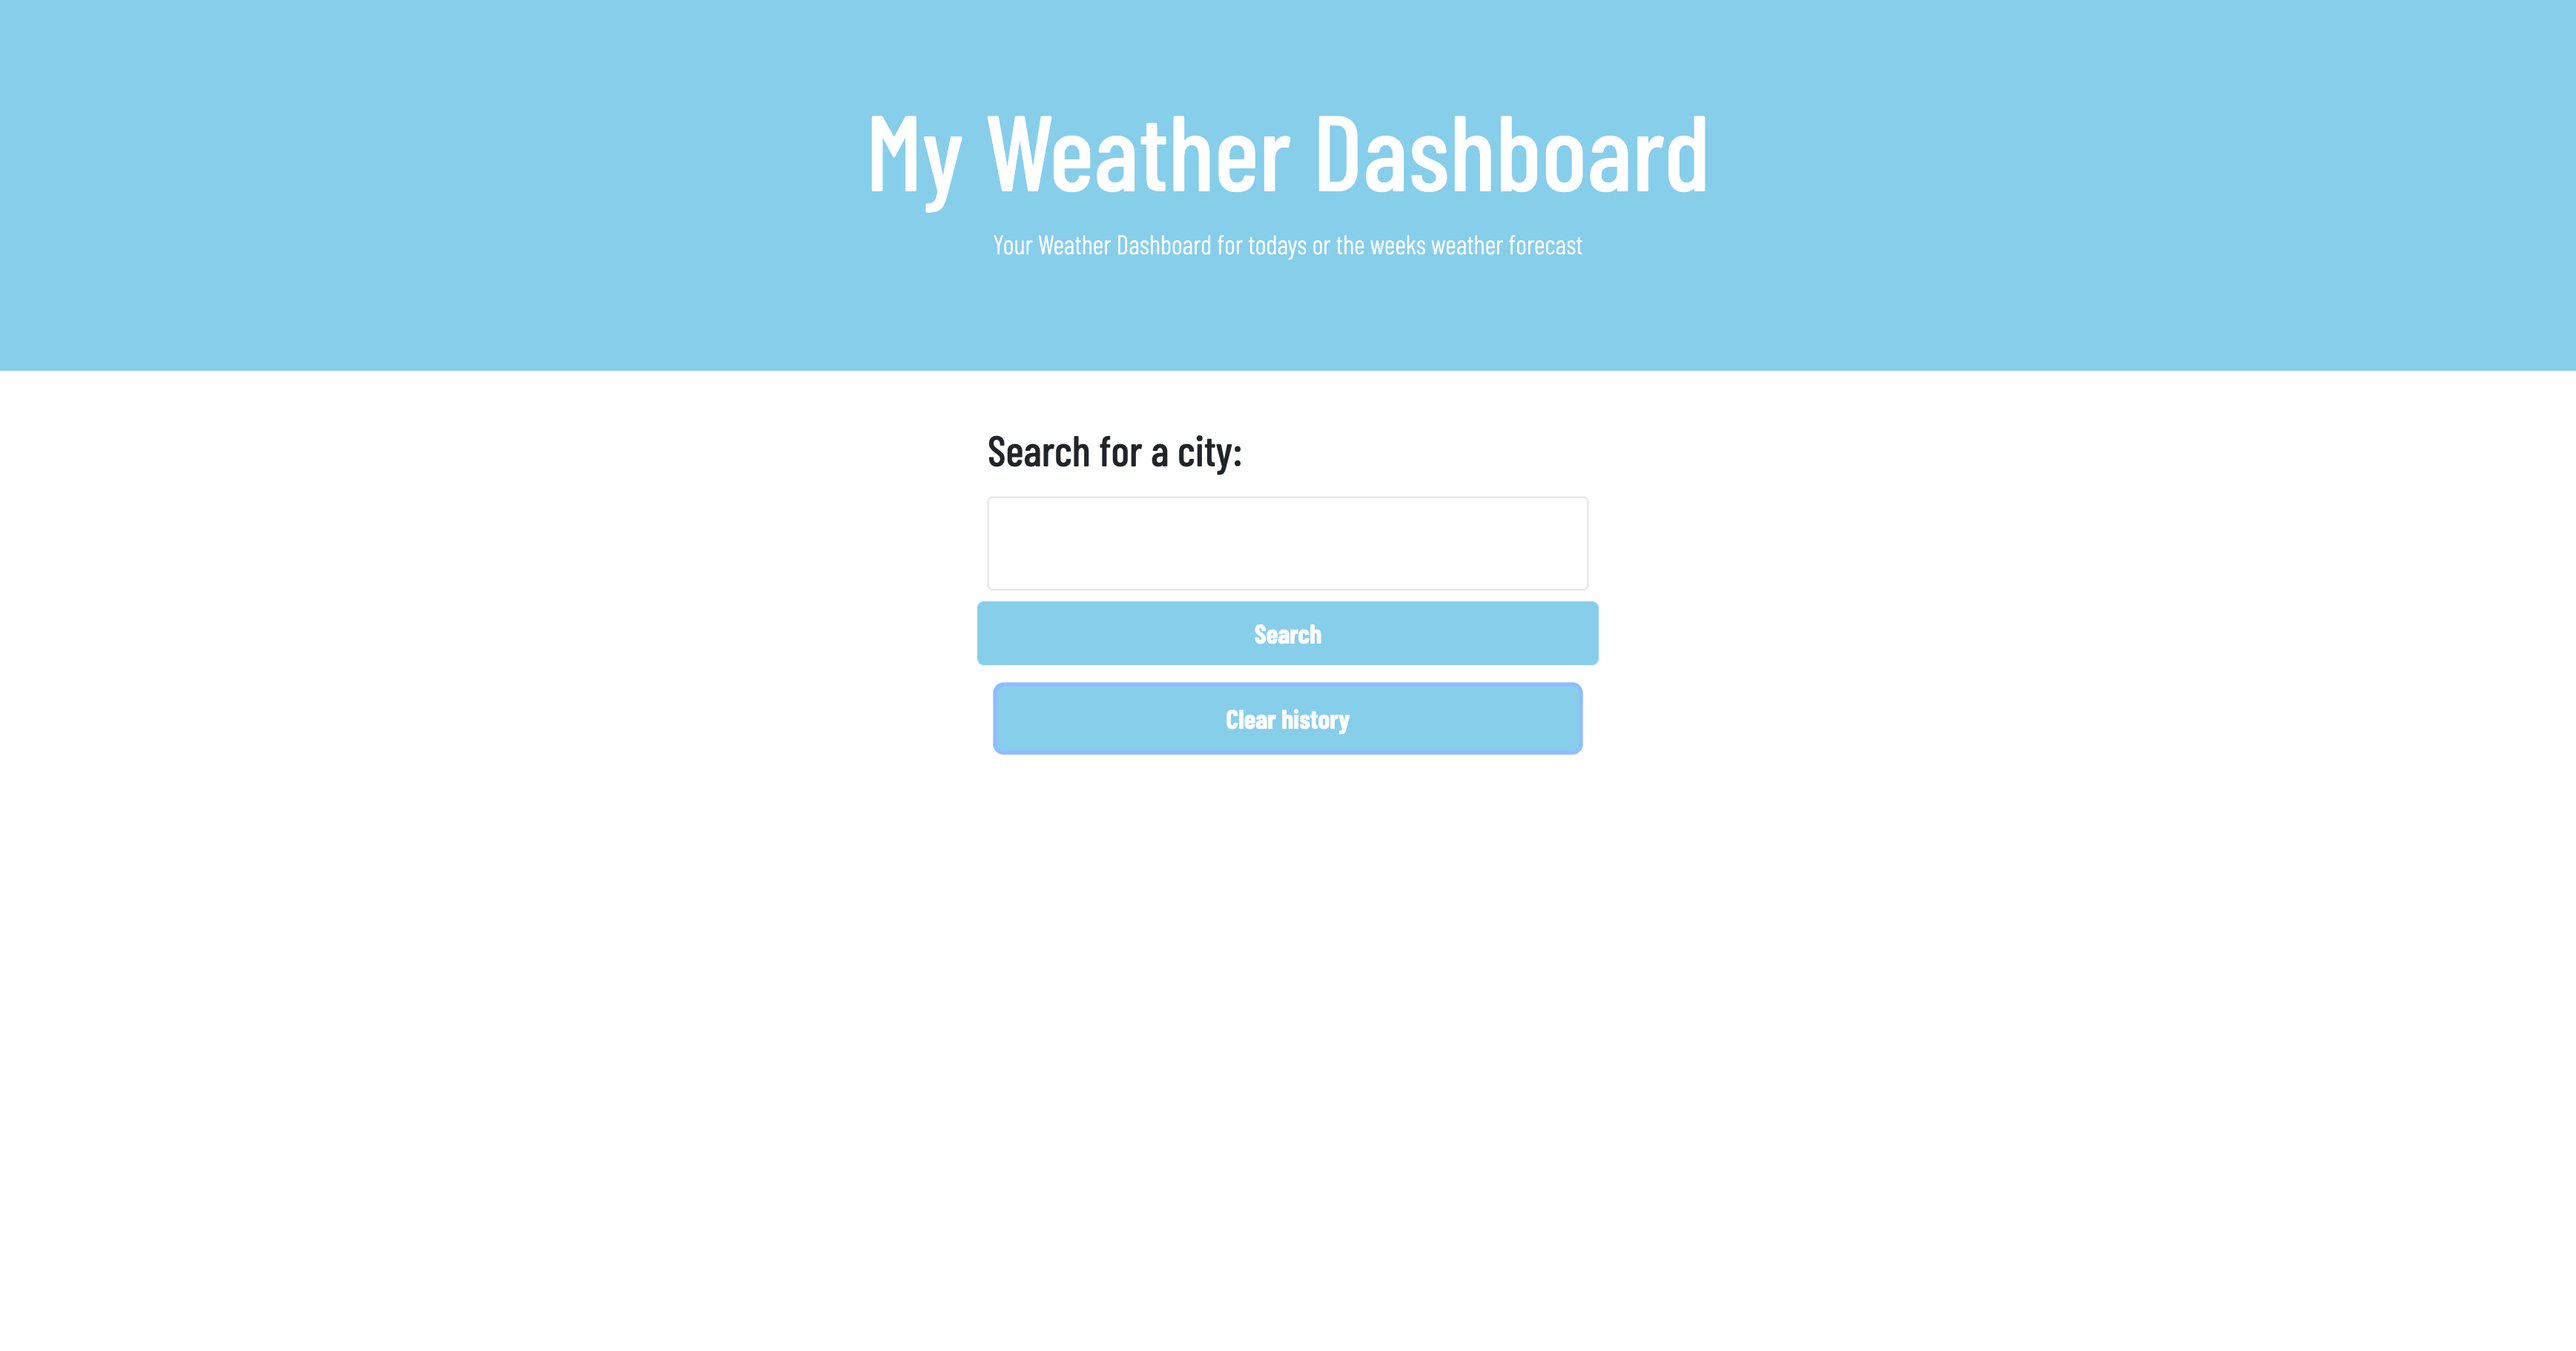
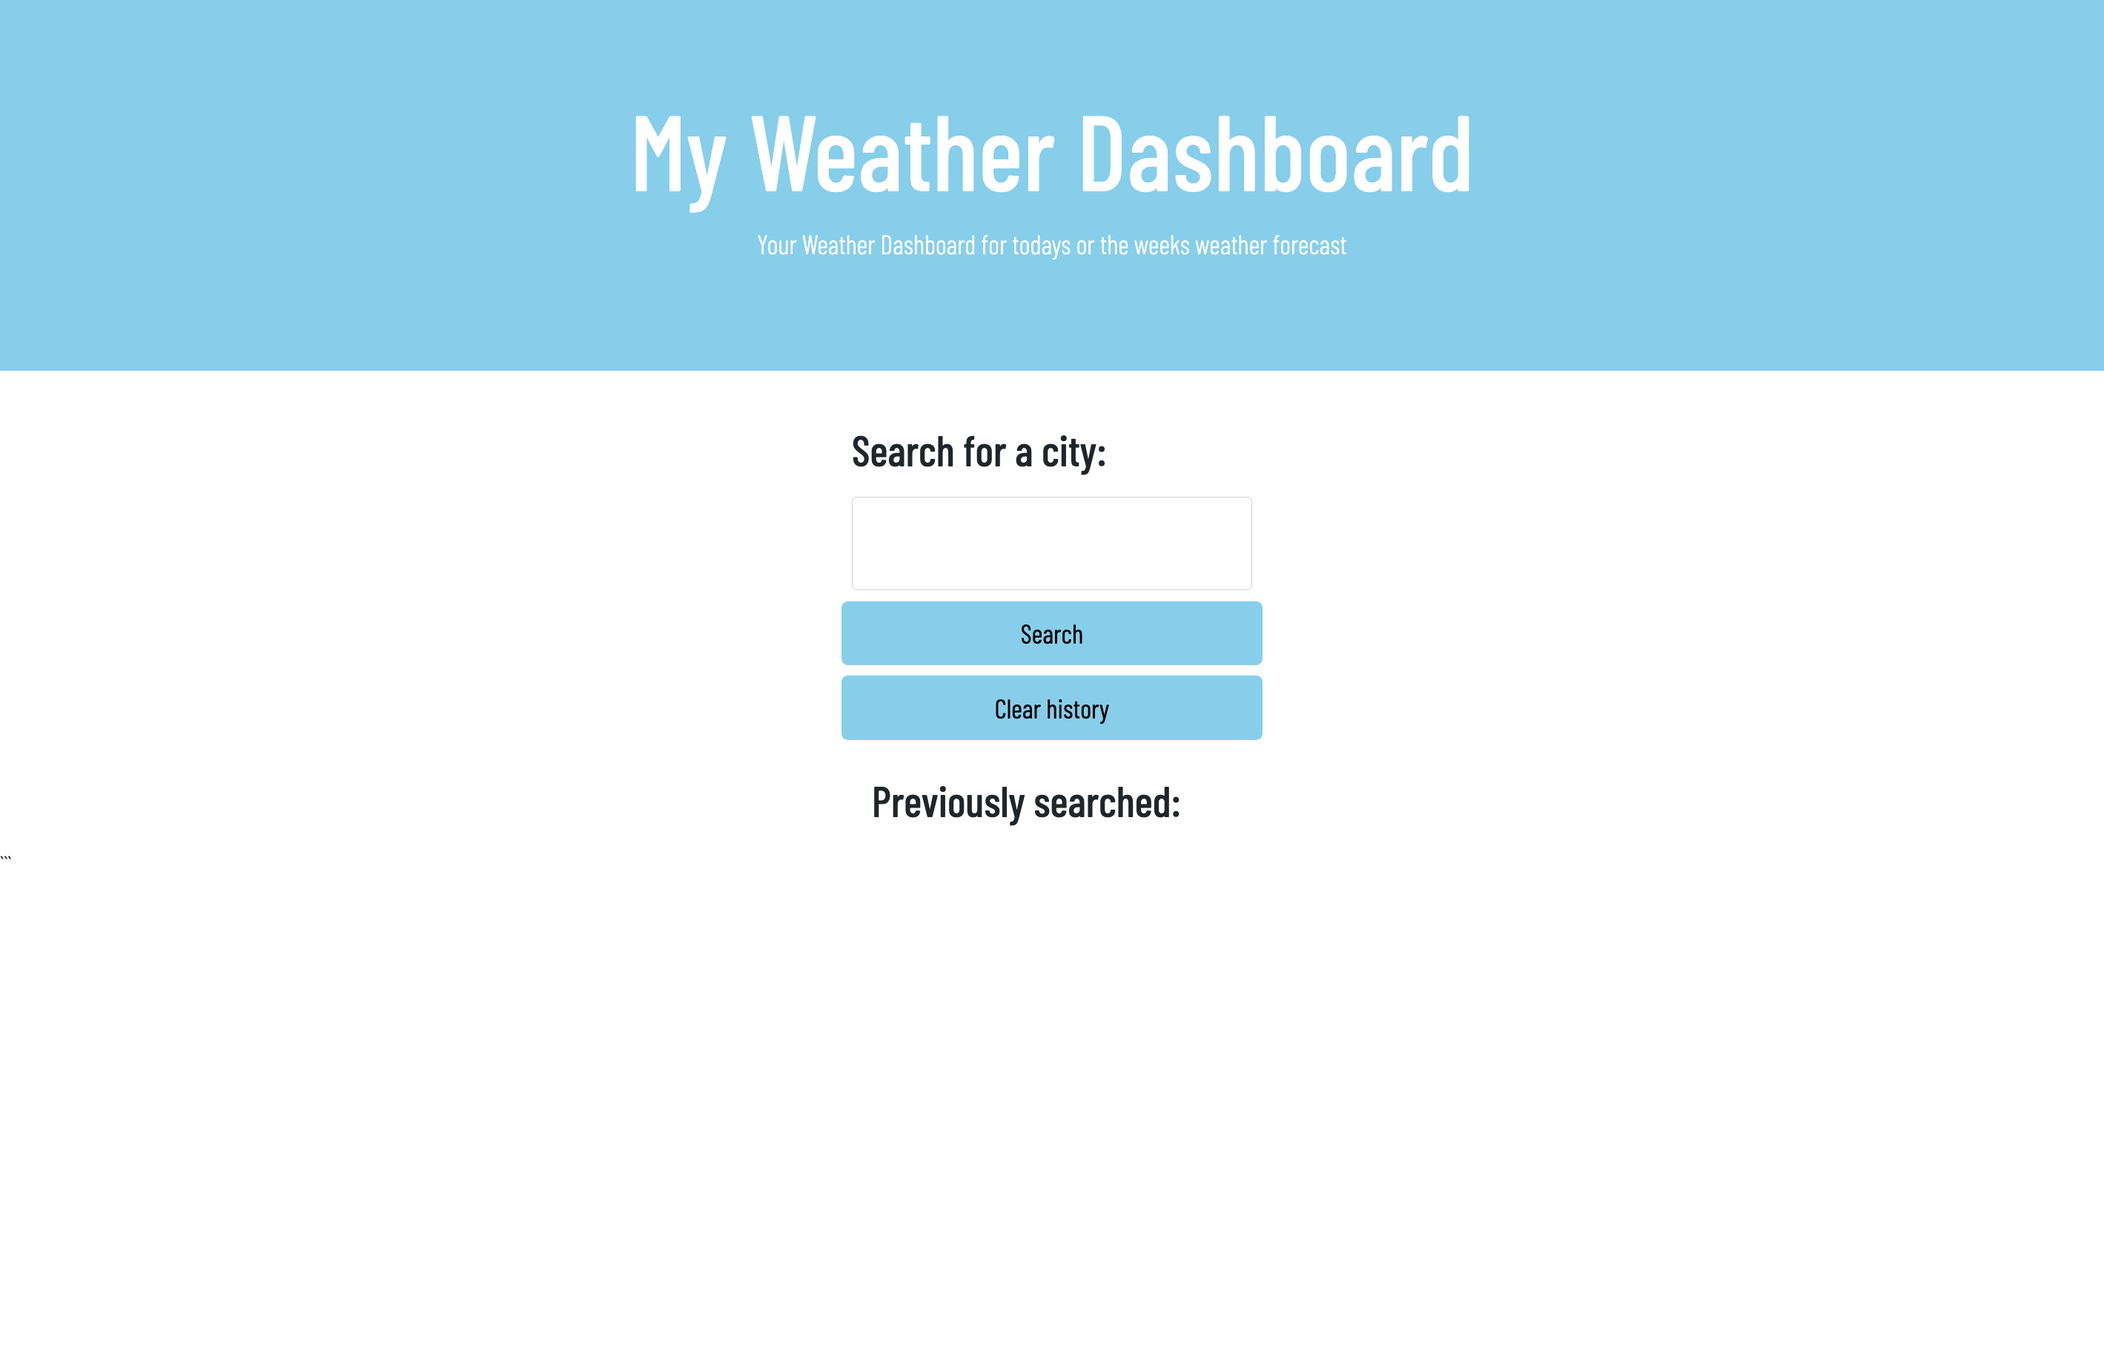
Final Commit

Changed region(s): [[0.2791, 0.0615, 0.7132, 0.1844], [0.3721, 0.4303, 0.6202, 0.6147], [0.3721, 0.3074, 0.5271, 0.3688]]

diff --git a/Assets/style.css b/Assets/style.css
@@ -37,6 +37,9 @@ body {
   font-size: 16px;
   margin: auto;
 }
+.border-bottom {
+  background-color: white;
+}
 /* this class determins the card header background colour */
 .card-header {
   color: black;
@@ -91,17 +94,17 @@ h3 {
 /* search button ID */
 #search-btn {
   color: black;
-  background-color: #d3d3d3;
-  border-color: #d3d3d3;
+  background-color: skyblue;
+  border-color: skyblue;
 }
 #search-btn:hover {
-  background-color: darkgray;
+  background-color: lightblue;
 }
 .btn {
   background-color: #d3d3d3;
 }
 .btn:hover {
-  background-color: darkgrey;
+  background-color: lightblue;
 }
 /* previously searched ID padding */
 #previously-searched {
@@ -111,11 +114,11 @@ h3 {
 #clear-button {
   margin-bottom: 10px;
   color: black;
-  background-color: #d3d3d3;
-  border-color: #d3d3d3;
+  background-color: skyblue;
+  border-color: skyblue;
 }
 #clear-button:hover {
-  background-color: darkgrey;
+  background-color: lightblue;
 }
 /* weather today ID max width */
 #weather-today {
